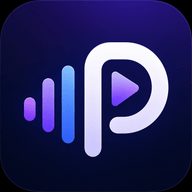
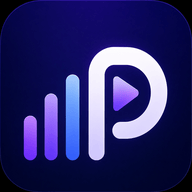
アイコンを新しい絵柄に差し替える
波形のバーを下端でそろえて背が伸びる形にし、Pと再生マークを大きくした
絵柄に変更した。icons/source.png を新しい原本に入れ替え、各サイズは
これまでと同じ加工（一般はそのまま縮小、iOS はわずかに拡大して角を落とす、
Android は中央 90% に角丸で切り抜いて配置）で作り直している。

maskable の周りは、元画像の縁が上下で明るさが大きく変わるようになったため
単色では継ぎ目が出る。縁の色をそのまま横へ伸ばした縦グラデーションで埋めた。

Claude-Session: https://claude.ai/code/session_01XMxvzheKb4oZ3CJcF4CzVM

diff --git a/sw.js b/sw.js
@@ -2,7 +2,7 @@
 // アプリシェルのみをキャッシュする Service Worker。
 // エピソードのダウンロード/オフライン再生は非要件のため、音声とフィードは一切キャッシュしない。
 // ---------------------------------------------------------------------------
-const CACHE = 'podcast-pwa-v6';
+const CACHE = 'podcast-pwa-v7';
 // 番組画像はURLごとに内容が変わらないので、別枠で溜めておく
 const ART_CACHE = 'podcast-pwa-art-v1';
 

diff --git a/js/config.js b/js/config.js
@@ -4,7 +4,7 @@
 
 // ホーム画面の下部に表示する版。端末に新しいコードが届いているかを目視で確かめるためのもの。
 // 変更を配信するたびに更新する。
-export const APP_VERSION = '2026-08-20 #34';
+export const APP_VERSION = '2026-08-20 #35';
 
 // RSSフィードの取得経路。全経路を同時に投げ、最初に成功したものを採用する。
 //
